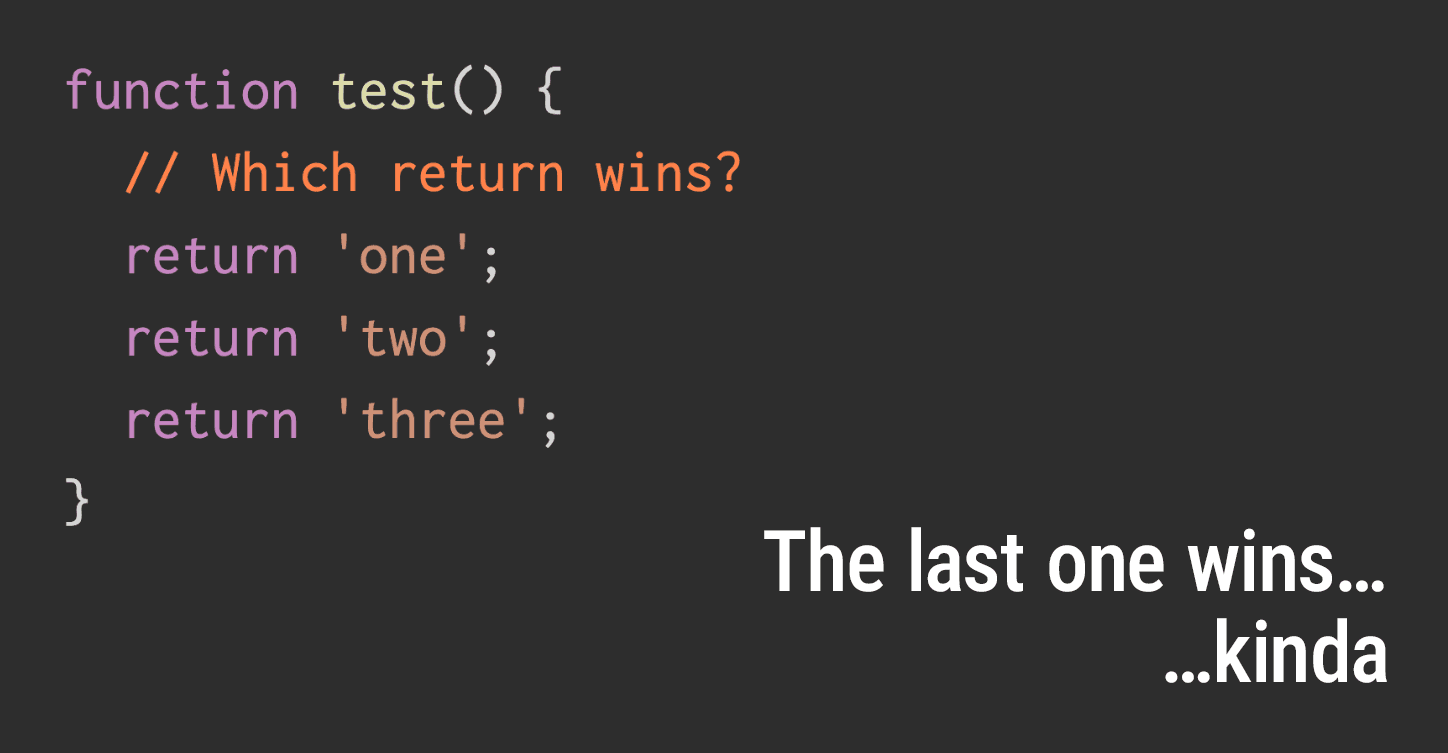
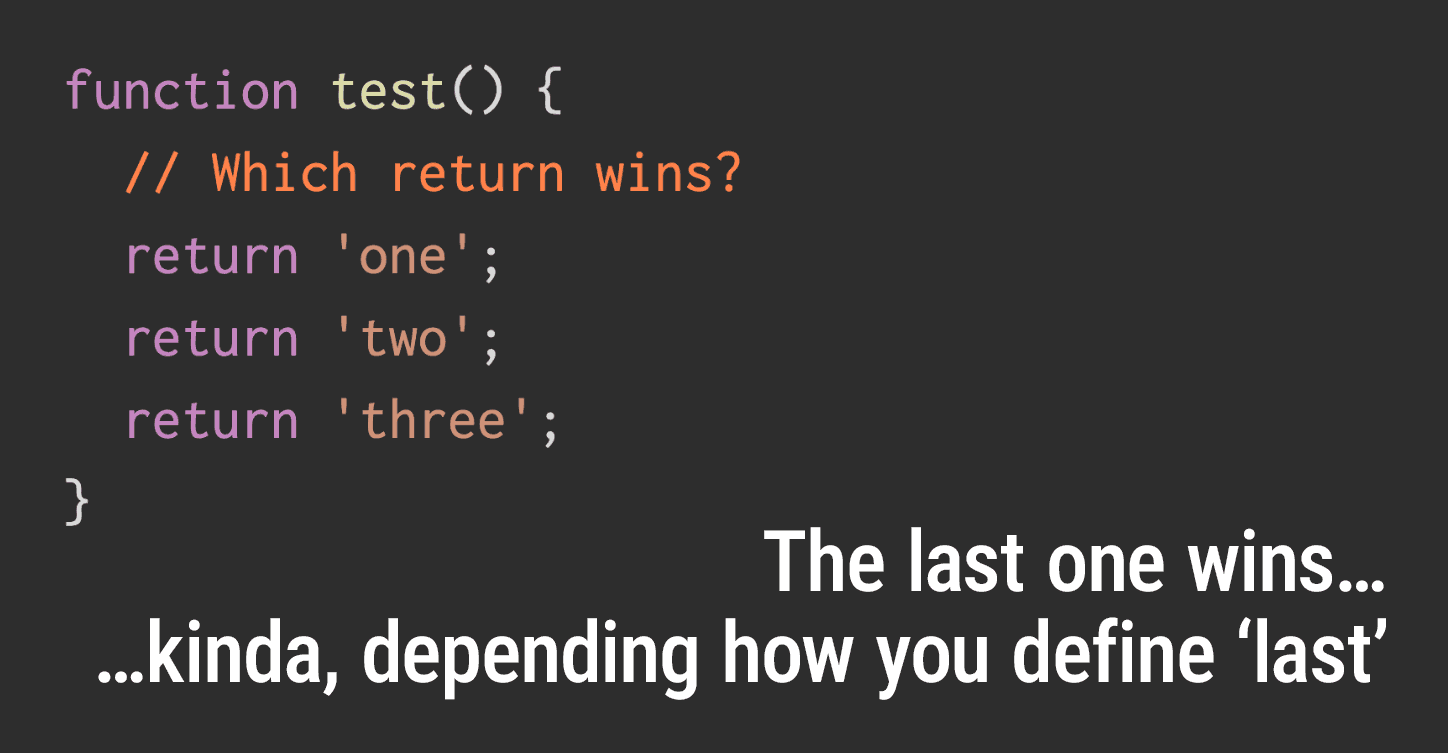
Making the cheekiness more obvious because people don't have a sense of humour

Changed region(s): [[0.0622, 0.8247, 0.9634, 0.9469]]

diff --git a/static-build/posts/2021/06/last-return-wins/index.md b/static-build/posts/2021/06/last-return-wins/index.md
@@ -1,5 +1,5 @@
 ---
-title: In JS functions, the last return wins
+title: In JS functions, the 'last' return wins
 date: 2021-06-24 01:00:00
 summary: An edge case has convinced me it's the 'last' return that always wins…
 meta: An edge case has convinced me it's the 'last' return that always wins…
